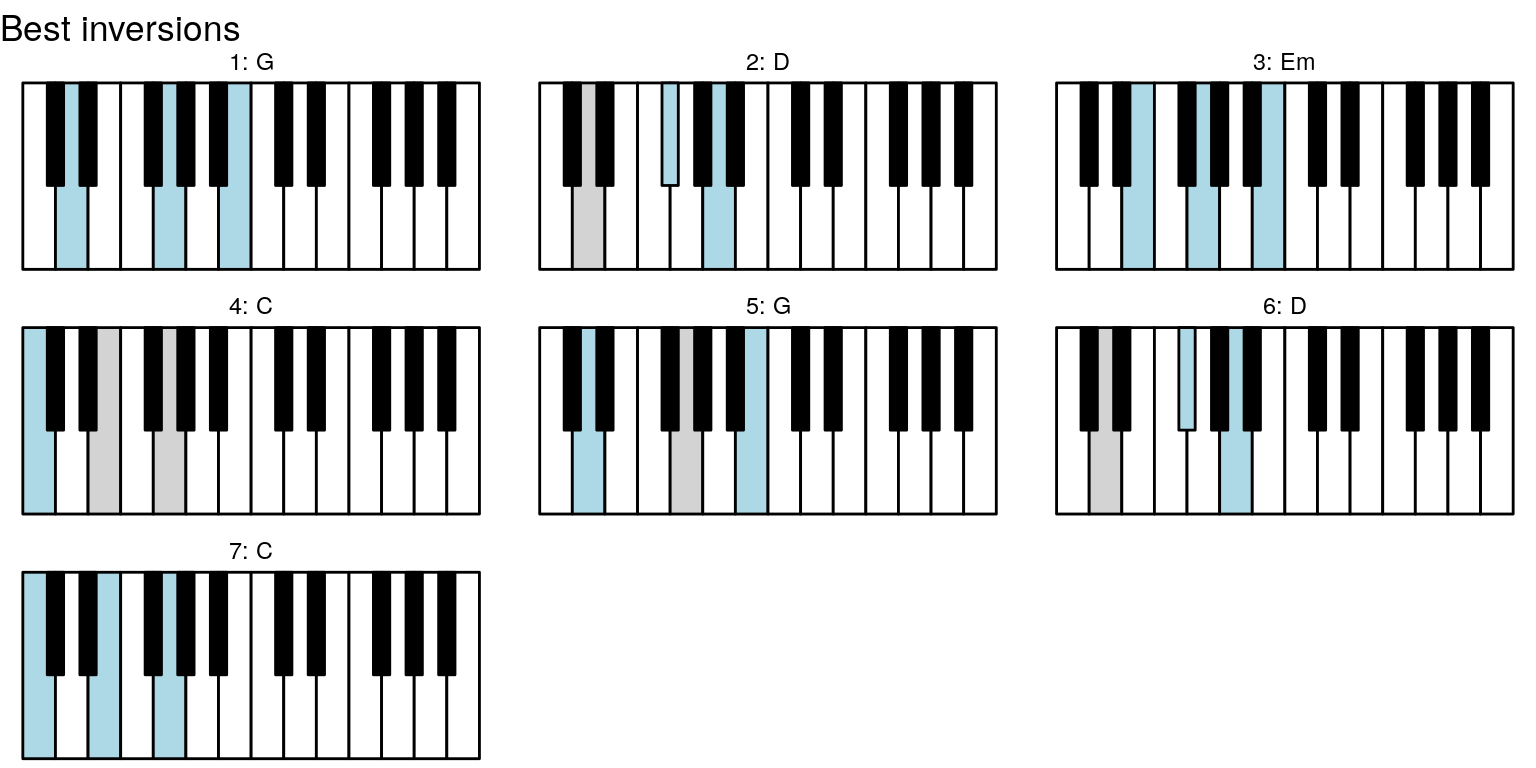
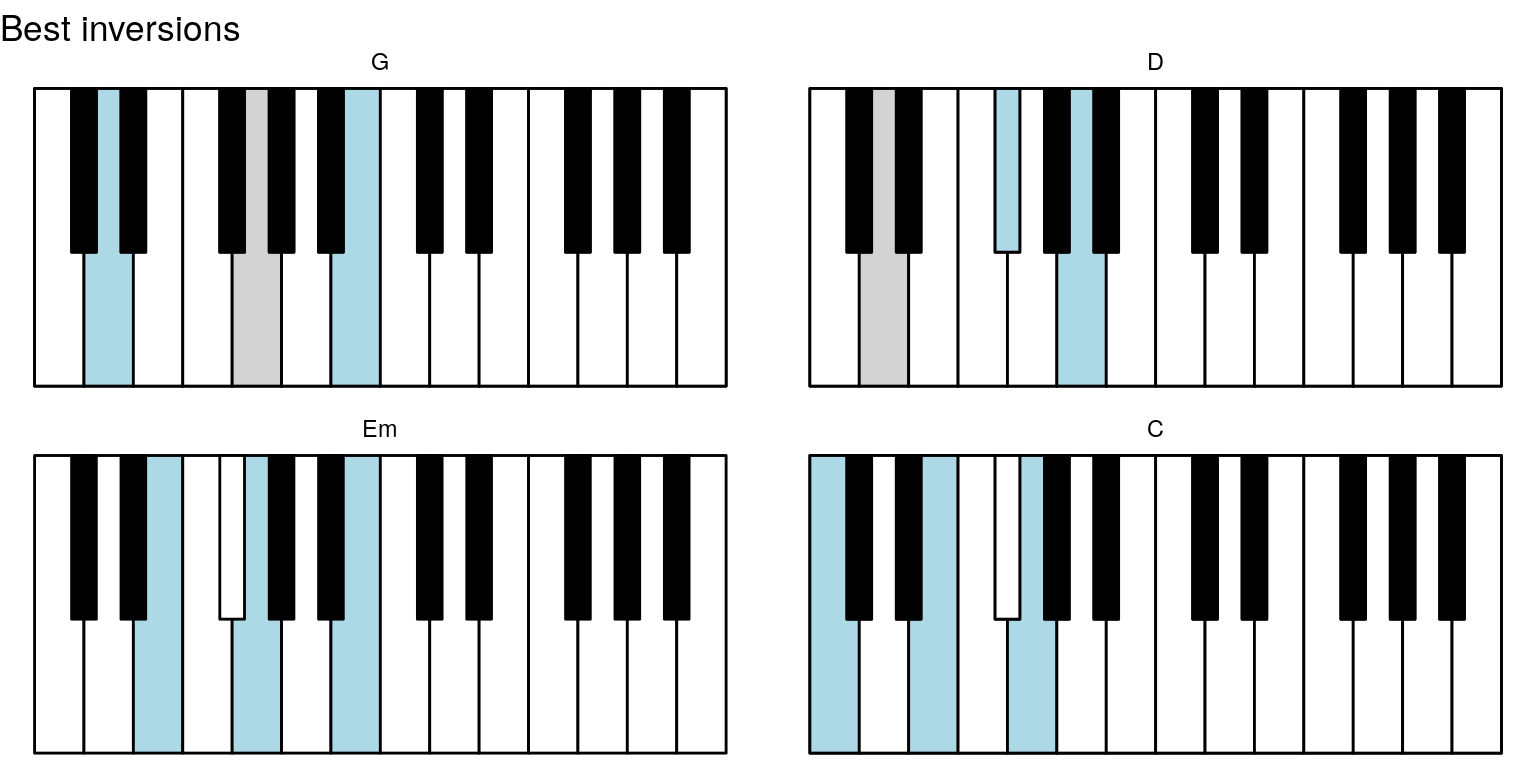
Easier naming

diff --git a/docs/articles/chord-sequence.html b/docs/articles/chord-sequence.html
@@ -101,7 +101,7 @@
 <div class="sourceCode" id="cb2"><pre class="sourceCode r"><code class="sourceCode r"><a class="sourceLine" id="cb2-1" title="1">keys_coords <span class="op">%&gt;%</span><span class="st"> </span></a>
 <a class="sourceLine" id="cb2-2" title="2"><span class="st">  </span><span class="kw"><a href="../reference/highlight_key_sequence.html">highlight_key_sequence</a></span>(<span class="dt">key_sequence =</span> <span class="kw"><a href="https://www.rdocumentation.org/packages/base/topics/list">list</a></span>(<span class="kw"><a href="https://www.rdocumentation.org/packages/base/topics/c">c</a></span>(<span class="dv">1</span>, <span class="dv">2</span>, <span class="dv">3</span>), <span class="kw"><a href="https://www.rdocumentation.org/packages/base/topics/c">c</a></span>(<span class="dv">2</span>, <span class="dv">3</span>, <span class="dv">4</span>))) <span class="op">%&gt;%</span><span class="st"> </span></a>
 <a class="sourceLine" id="cb2-3" title="3"><span class="st">  </span><span class="kw"><a href="../reference/ggpiano.html">ggpiano</a></span>() <span class="op">+</span><span class="st"> </span></a>
-<a class="sourceLine" id="cb2-4" title="4"><span class="st">  </span><span class="kw"><a href="https://www.rdocumentation.org/packages/ggplot2/topics/facet_wrap">facet_wrap</a></span>(<span class="op">~</span><span class="st"> </span>seq_no)</a></code></pre></div>
+<a class="sourceLine" id="cb2-4" title="4"><span class="st">  </span><span class="kw"><a href="https://www.rdocumentation.org/packages/ggplot2/topics/facet_wrap">facet_wrap</a></span>(<span class="op">~</span><span class="st"> </span>seq_name)</a></code></pre></div>
 <p><img src="chord-sequence_files/figure-html/unnamed-chunk-2-1.png" width="768"></p>
 </div>
 <div id="slightly-larger-example" class="section level1">
@@ -141,28 +141,23 @@
 <div class="sourceCode" id="cb5"><pre class="sourceCode r"><code class="sourceCode r"><a class="sourceLine" id="cb5-1" title="1">keys_coords <span class="op">%&gt;%</span><span class="st"> </span></a>
 <a class="sourceLine" id="cb5-2" title="2"><span class="st">  </span><span class="kw"><a href="../reference/highlight_key_sequence.html">highlight_key_sequence</a></span>(<span class="dt">key_sequence =</span> key_seq) <span class="op">%&gt;%</span><span class="st"> </span></a>
 <a class="sourceLine" id="cb5-3" title="3"><span class="st">  </span><span class="kw"><a href="../reference/ggpiano.html">ggpiano</a></span>() <span class="op">+</span><span class="st"> </span></a>
-<a class="sourceLine" id="cb5-4" title="4"><span class="st">  </span><span class="kw"><a href="https://www.rdocumentation.org/packages/ggplot2/topics/facet_wrap">facet_wrap</a></span>(<span class="op">~</span><span class="st"> </span>seq_no)</a></code></pre></div>
+<a class="sourceLine" id="cb5-4" title="4"><span class="st">  </span><span class="kw"><a href="https://www.rdocumentation.org/packages/ggplot2/topics/facet_wrap">facet_wrap</a></span>(<span class="op">~</span><span class="st"> </span>seq_name)</a></code></pre></div>
 <p><img src="chord-sequence_files/figure-html/unnamed-chunk-5-1.png" width="768"></p>
-<p>And get more helpful facet panel title:</p>
-<div class="sourceCode" id="cb6"><pre class="sourceCode r"><code class="sourceCode r"><a class="sourceLine" id="cb6-1" title="1">d_chord_nms &lt;-<span class="st"> </span>tibble<span class="op">::</span><span class="kw"><a href="https://tibble.tidyverse.org/reference/enframe.html">enframe</a></span>(chord_names, <span class="dt">name =</span> <span class="st">"seq_no"</span>, <span class="dt">value =</span> <span class="st">"seq_nm"</span>) <span class="op">%&gt;%</span><span class="st"> </span></a>
-<a class="sourceLine" id="cb6-2" title="2"><span class="st">  </span><span class="kw"><a href="https://dplyr.tidyverse.org/reference/mutate.html">mutate</a></span>(<span class="dt">seq_lbl =</span> <span class="kw"><a href="https://www.rdocumentation.org/packages/base/topics/paste">paste0</a></span>(seq_no, <span class="st">": "</span>, seq_nm)) <span class="op">%&gt;%</span><span class="st"> </span></a>
-<a class="sourceLine" id="cb6-3" title="3"><span class="st">  </span><span class="kw"><a href="https://dplyr.tidyverse.org/reference/mutate.html">mutate</a></span>(<span class="dt">seq_lbl =</span> forcats<span class="op">::</span><span class="kw"><a href="https://forcats.tidyverse.org/reference/fct_inorder.html">fct_inorder</a></span>(seq_lbl))</a>
-<a class="sourceLine" id="cb6-4" title="4">d_chord_nms</a>
-<a class="sourceLine" id="cb6-5" title="5"><span class="co">#&gt; # A tibble: 7 x 3</span></a>
-<a class="sourceLine" id="cb6-6" title="6"><span class="co">#&gt;   seq_no seq_nm seq_lbl</span></a>
-<a class="sourceLine" id="cb6-7" title="7"><span class="co">#&gt;    &lt;int&gt; &lt;chr&gt;  &lt;fct&gt;  </span></a>
-<a class="sourceLine" id="cb6-8" title="8"><span class="co">#&gt; 1      1 G      1: G   </span></a>
-<a class="sourceLine" id="cb6-9" title="9"><span class="co">#&gt; 2      2 D      2: D   </span></a>
-<a class="sourceLine" id="cb6-10" title="10"><span class="co">#&gt; 3      3 Em     3: Em  </span></a>
-<a class="sourceLine" id="cb6-11" title="11"><span class="co">#&gt; 4      4 C      4: C   </span></a>
-<a class="sourceLine" id="cb6-12" title="12"><span class="co">#&gt; 5      5 G      5: G   </span></a>
-<a class="sourceLine" id="cb6-13" title="13"><span class="co">#&gt; 6      6 D      6: D   </span></a>
-<a class="sourceLine" id="cb6-14" title="14"><span class="co">#&gt; 7      7 C      7: C</span></a></code></pre></div>
+<p>And get more helpful facet panel title by providing <code>sequence_names</code> argument to <code>highlight_key_sequence</code>:</p>
+<div class="sourceCode" id="cb6"><pre class="sourceCode r"><code class="sourceCode r"><a class="sourceLine" id="cb6-1" title="1">keys_coords <span class="op">%&gt;%</span><span class="st"> </span></a>
+<a class="sourceLine" id="cb6-2" title="2"><span class="st">  </span><span class="kw"><a href="../reference/highlight_key_sequence.html">highlight_key_sequence</a></span>(<span class="dt">key_sequence =</span> key_seq,</a>
+<a class="sourceLine" id="cb6-3" title="3">                         <span class="dt">sequence_names =</span> chord_names) <span class="op">%&gt;%</span><span class="st"> </span></a>
+<a class="sourceLine" id="cb6-4" title="4"><span class="st">  </span><span class="kw"><a href="../reference/ggpiano.html">ggpiano</a></span>() <span class="op">+</span><span class="st"> </span></a>
+<a class="sourceLine" id="cb6-5" title="5"><span class="st">  </span><span class="kw"><a href="https://www.rdocumentation.org/packages/ggplot2/topics/facet_wrap">facet_wrap</a></span>(<span class="op">~</span><span class="st"> </span>seq_name)</a></code></pre></div>
+<p><img src="chord-sequence_files/figure-html/unnamed-chunk-6-1.png" width="768"></p>
+<p>And for exmple include <code>seq_no</code> in a new column <code>seq_lbl</code> (that are then converted to a factor with the right ordering):</p>
 <div class="sourceCode" id="cb7"><pre class="sourceCode r"><code class="sourceCode r"><a class="sourceLine" id="cb7-1" title="1">keys_coords <span class="op">%&gt;%</span><span class="st"> </span></a>
-<a class="sourceLine" id="cb7-2" title="2"><span class="st">  </span><span class="kw"><a href="../reference/highlight_key_sequence.html">highlight_key_sequence</a></span>(<span class="dt">key_sequence =</span> key_seq) <span class="op">%&gt;%</span><span class="st"> </span></a>
-<a class="sourceLine" id="cb7-3" title="3"><span class="st">  </span><span class="kw"><a href="https://dplyr.tidyverse.org/reference/join.html">left_join</a></span>(d_chord_nms, <span class="dt">by =</span> <span class="st">"seq_no"</span>) <span class="op">%&gt;%</span><span class="st"> </span></a>
-<a class="sourceLine" id="cb7-4" title="4"><span class="st">  </span><span class="kw"><a href="../reference/ggpiano.html">ggpiano</a></span>() <span class="op">+</span><span class="st"> </span></a>
-<a class="sourceLine" id="cb7-5" title="5"><span class="st">  </span><span class="kw"><a href="https://www.rdocumentation.org/packages/ggplot2/topics/facet_wrap">facet_wrap</a></span>(<span class="op">~</span><span class="st"> </span>seq_lbl)</a></code></pre></div>
+<a class="sourceLine" id="cb7-2" title="2"><span class="st">  </span><span class="kw"><a href="../reference/highlight_key_sequence.html">highlight_key_sequence</a></span>(<span class="dt">key_sequence =</span> key_seq,</a>
+<a class="sourceLine" id="cb7-3" title="3">                         <span class="dt">sequence_names =</span> chord_names) <span class="op">%&gt;%</span><span class="st"> </span></a>
+<a class="sourceLine" id="cb7-4" title="4"><span class="st">  </span><span class="kw"><a href="https://dplyr.tidyverse.org/reference/mutate.html">mutate</a></span>(<span class="dt">seq_lbl =</span> <span class="kw"><a href="https://www.rdocumentation.org/packages/base/topics/paste">paste0</a></span>(seq_name, <span class="st">" (#"</span>, seq_no, <span class="st">")"</span>)) <span class="op">%&gt;%</span><span class="st"> </span></a>
+<a class="sourceLine" id="cb7-5" title="5"><span class="st">  </span><span class="kw"><a href="https://dplyr.tidyverse.org/reference/mutate.html">mutate</a></span>(<span class="dt">seq_lbl =</span> forcats<span class="op">::</span><span class="kw"><a href="https://forcats.tidyverse.org/reference/fct_inorder.html">fct_inorder</a></span>(seq_lbl)) <span class="op">%&gt;%</span><span class="st"> </span></a>
+<a class="sourceLine" id="cb7-6" title="6"><span class="st">  </span><span class="kw"><a href="../reference/ggpiano.html">ggpiano</a></span>() <span class="op">+</span><span class="st"> </span></a>
+<a class="sourceLine" id="cb7-7" title="7"><span class="st">  </span><span class="kw"><a href="https://www.rdocumentation.org/packages/ggplot2/topics/facet_wrap">facet_wrap</a></span>(<span class="op">~</span><span class="st"> </span>seq_lbl)</a></code></pre></div>
 <p><img src="chord-sequence_files/figure-html/unnamed-chunk-7-1.png" width="768"></p>
 </div>
 <div id="finding-better-inversions" class="section level1">
@@ -172,17 +167,17 @@
 And with an exhaustive approach that is only feasible for shorter sequences.</p>
 <div class="sourceCode" id="cb8"><pre class="sourceCode r"><code class="sourceCode r"><a class="sourceLine" id="cb8-1" title="1">opt_res &lt;-<span class="st"> </span><span class="kw"><a href="../reference/optim_min_dist_exhaustive.html">optim_min_dist_exhaustive</a></span>(<span class="dt">key_sequence =</span> key_seq)</a></code></pre></div>
 <div class="sourceCode" id="cb9"><pre class="sourceCode r"><code class="sourceCode r"><a class="sourceLine" id="cb9-1" title="1">keys_coords <span class="op">%&gt;%</span><span class="st"> </span></a>
-<a class="sourceLine" id="cb9-2" title="2"><span class="st">  </span><span class="kw"><a href="../reference/highlight_key_sequence.html">highlight_key_sequence</a></span>(<span class="dt">key_sequence =</span> opt_res<span class="op">$</span>best) <span class="op">%&gt;%</span><span class="st"> </span></a>
-<a class="sourceLine" id="cb9-3" title="3"><span class="st">  </span><span class="kw"><a href="https://dplyr.tidyverse.org/reference/join.html">left_join</a></span>(d_chord_nms, <span class="dt">by =</span> <span class="st">"seq_no"</span>) <span class="op">%&gt;%</span><span class="st"> </span></a>
+<a class="sourceLine" id="cb9-2" title="2"><span class="st">  </span><span class="kw"><a href="../reference/highlight_key_sequence.html">highlight_key_sequence</a></span>(<span class="dt">key_sequence =</span> opt_res<span class="op">$</span>best,</a>
+<a class="sourceLine" id="cb9-3" title="3">                         <span class="dt">sequence_names =</span> chord_names) <span class="op">%&gt;%</span><span class="st"> </span></a>
 <a class="sourceLine" id="cb9-4" title="4"><span class="st">  </span><span class="kw"><a href="../reference/ggpiano.html">ggpiano</a></span>() <span class="op">+</span><span class="st"> </span></a>
-<a class="sourceLine" id="cb9-5" title="5"><span class="st">  </span><span class="kw"><a href="https://www.rdocumentation.org/packages/ggplot2/topics/facet_wrap">facet_wrap</a></span>(<span class="op">~</span><span class="st"> </span>seq_lbl) <span class="op">+</span></a>
+<a class="sourceLine" id="cb9-5" title="5"><span class="st">  </span><span class="kw"><a href="https://www.rdocumentation.org/packages/ggplot2/topics/facet_wrap">facet_wrap</a></span>(<span class="op">~</span><span class="st"> </span>seq_name) <span class="op">+</span></a>
 <a class="sourceLine" id="cb9-6" title="6"><span class="st">  </span><span class="kw"><a href="https://www.rdocumentation.org/packages/ggplot2/topics/labs">labs</a></span>(<span class="dt">title =</span> <span class="st">"Best inversions"</span>)</a></code></pre></div>
 <p><img src="chord-sequence_files/figure-html/unnamed-chunk-9-1.png" width="768"></p>
 <div class="sourceCode" id="cb10"><pre class="sourceCode r"><code class="sourceCode r"><a class="sourceLine" id="cb10-1" title="1">keys_coords <span class="op">%&gt;%</span><span class="st"> </span></a>
-<a class="sourceLine" id="cb10-2" title="2"><span class="st">  </span><span class="kw"><a href="../reference/highlight_key_sequence.html">highlight_key_sequence</a></span>(<span class="dt">key_sequence =</span> opt_res<span class="op">$</span>worst) <span class="op">%&gt;%</span><span class="st"> </span></a>
-<a class="sourceLine" id="cb10-3" title="3"><span class="st">  </span><span class="kw"><a href="https://dplyr.tidyverse.org/reference/join.html">left_join</a></span>(d_chord_nms, <span class="dt">by =</span> <span class="st">"seq_no"</span>) <span class="op">%&gt;%</span><span class="st"> </span></a>
+<a class="sourceLine" id="cb10-2" title="2"><span class="st">  </span><span class="kw"><a href="../reference/highlight_key_sequence.html">highlight_key_sequence</a></span>(<span class="dt">key_sequence =</span> opt_res<span class="op">$</span>best,</a>
+<a class="sourceLine" id="cb10-3" title="3">                         <span class="dt">sequence_names =</span> chord_names) <span class="op">%&gt;%</span><span class="st"> </span></a>
 <a class="sourceLine" id="cb10-4" title="4"><span class="st">  </span><span class="kw"><a href="../reference/ggpiano.html">ggpiano</a></span>() <span class="op">+</span><span class="st"> </span></a>
-<a class="sourceLine" id="cb10-5" title="5"><span class="st">  </span><span class="kw"><a href="https://www.rdocumentation.org/packages/ggplot2/topics/facet_wrap">facet_wrap</a></span>(<span class="op">~</span><span class="st"> </span>seq_lbl) <span class="op">+</span></a>
+<a class="sourceLine" id="cb10-5" title="5"><span class="st">  </span><span class="kw"><a href="https://www.rdocumentation.org/packages/ggplot2/topics/facet_wrap">facet_wrap</a></span>(<span class="op">~</span><span class="st"> </span>seq_name) <span class="op">+</span></a>
 <a class="sourceLine" id="cb10-6" title="6"><span class="st">  </span><span class="kw"><a href="https://www.rdocumentation.org/packages/ggplot2/topics/labs">labs</a></span>(<span class="dt">title =</span> <span class="st">"Worst inversions"</span>)</a></code></pre></div>
 <p><img src="chord-sequence_files/figure-html/unnamed-chunk-10-1.png" width="768"></p>
 </div>

diff --git a/docs/reference/highlight_key_sequence.html b/docs/reference/highlight_key_sequence.html
@@ -126,8 +126,9 @@
     
     </div>
 
-    <pre class="usage"><span class='fu'>highlight_key_sequence</span>(<span class='no'>data</span>, <span class='no'>key_sequence</span>, <span class='kw'>new_color</span> <span class='kw'>=</span> <span class='st'>"lightblue"</span>,
-  <span class='kw'>keep_color</span> <span class='kw'>=</span> <span class='st'>"lightgrey"</span>)</pre>
+    <pre class="usage"><span class='fu'>highlight_key_sequence</span>(<span class='no'>data</span>, <span class='no'>key_sequence</span>, <span class='kw'>sequence_names</span> <span class='kw'>=</span> <span class='kw'>NULL</span>,
+  <span class='kw'>new_color</span> <span class='kw'>=</span> <span class='st'>"lightblue"</span>, <span class='kw'>keep_color</span> <span class='kw'>=</span> <span class='st'>"lightgrey"</span>,
+  <span class='kw'>remove_color</span> <span class='kw'>=</span> <span class='st'>"white"</span>)</pre>
     
     <h2 class="hasAnchor" id="arguments"><a class="anchor" href="#arguments"></a>Arguments</h2>
     <table class="ref-arguments">
@@ -141,6 +142,10 @@
       <td><p>list of vector with key numbers, note that they can be greater than 12</p></td>
     </tr>
     <tr>
+      <th>sequence_names</th>
+      <td><p>names of each element in <code>key_sequence</code></p></td>
+    </tr>
+    <tr>
       <th>new_color</th>
       <td><p>highlight color for new keys</p></td>
     </tr>
@@ -148,11 +153,16 @@
       <th>keep_color</th>
       <td><p>highlight color for keys kept at same position</p></td>
     </tr>
+    <tr>
+      <th>remove_color</th>
+      <td><p>highlight color for removed keys</p></td>
+    </tr>
     </table>
     
     <h2 class="hasAnchor" id="value"><a class="anchor" href="#value"></a>Value</h2>
 
-    <p>A new dataset with a new column, <code>seq_no</code>, that can be used in e.g. plotting</p>
+    <p>A new dataset with two new columns: <code>seq_no</code>, that can be used in e.g. plotting,
+and <code>seq_name</code> that is either <code>seq_no</code> of <code>sequence_names</code> if provided.</p>
     
 
   </div>
